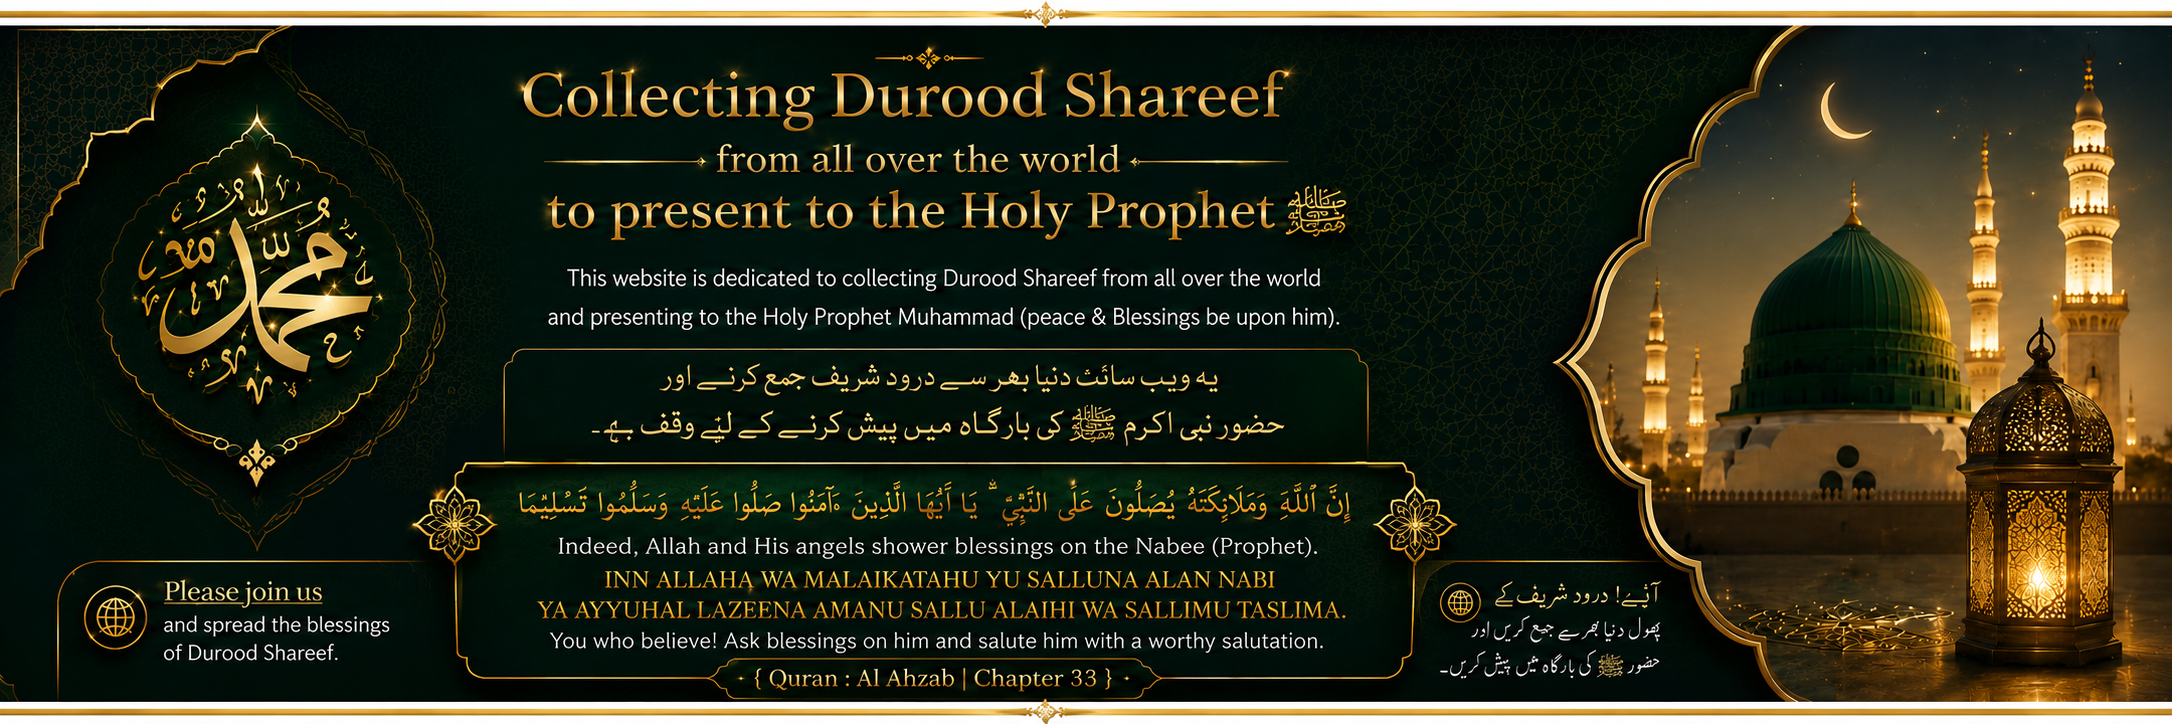
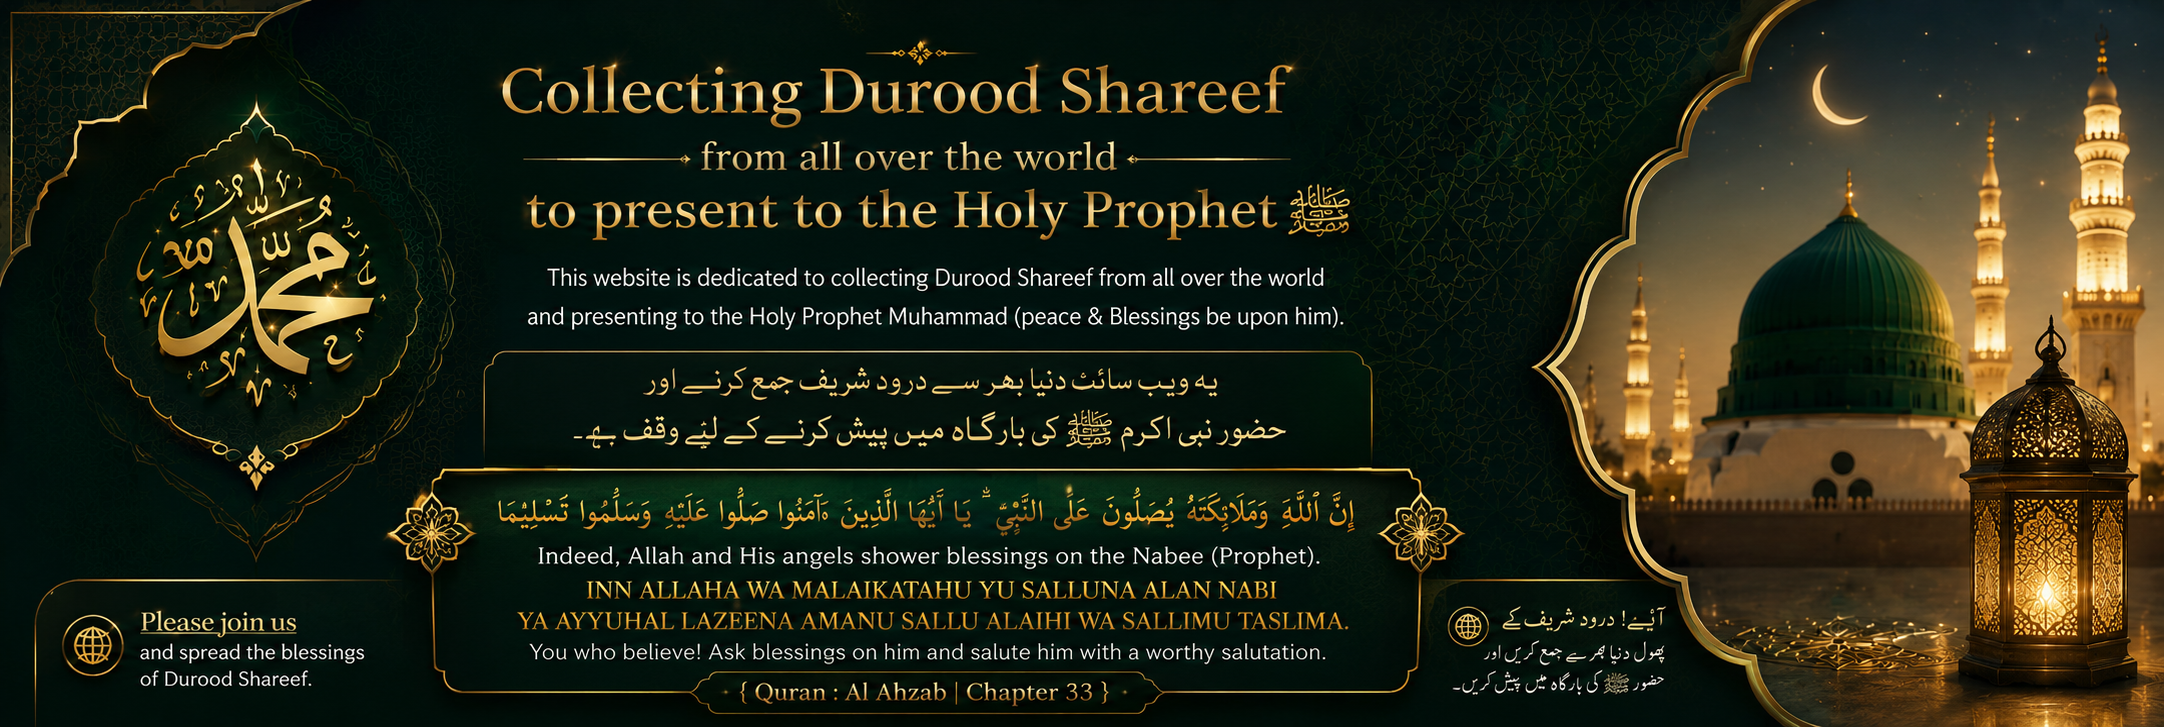
Redesign Urdu block, remove highlights row, center heading, swap photo/text layout in Mission section

diff --git a/src/components/home/MissionSection.tsx b/src/components/home/MissionSection.tsx
@@ -2,7 +2,16 @@
 
 import Image from 'next/image'
 import Link from 'next/link'
-import { FaHeart, FaVideo, FaBookOpen, FaMicrophone, FaArrowRight } from 'react-icons/fa'
+import { FaHeart, FaArrowRight } from 'react-icons/fa'
+
+// Urdu translation broken into individual sentences so each one can get
+// its own thin divider underneath it — keeps the Nastaliq script from
+// ever feeling like one dense, run-together block of text.
+const urduLines = [
+  'یہ ویب سائٹ پوری دنیا میں درود شریف اور اس کی برکات کو جمع کرنے اور اسے فروغ دینے کے لیے وقف ہے۔',
+  'درود شریف کے فوائد وڈیوز، لیکچرز، نعتوں، کتابوں اور مضامین کے ذریعے شیئر کیے جائیں گے۔',
+  'انشاء اللہ اس ویب سائٹ کو دیکھنے والے روحانی طور پر بلند ہو جائیں گے اور دوسروں کے ساتھ برکات بانٹنے کی ترغیب دی جاتی ہے۔',
+]
 
 // Our Mission — bilingual (English + Urdu) statement paired with the
 // founder's photo. Sits right under the hero on the home page so a first-
@@ -23,41 +32,12 @@ export default function MissionSection() {
           </div>
         </div>
 
-        <div className="grid lg:grid-cols-[0.85fr_1.15fr] gap-10 lg:gap-14 items-center">
+        <div className="grid lg:grid-cols-2 gap-10 lg:gap-14 items-stretch">
           {/* ============================================
-              FOUNDER PHOTO
-              ============================================ */}
-          <div className="relative group mx-auto lg:mx-0 w-full max-w-sm">
-            <div className="absolute -inset-6 bg-gold-500/10 rounded-[2rem] blur-3xl opacity-0 group-hover:opacity-100 transition-opacity duration-700" />
-
-            <div className="relative rounded-[1.75rem] overflow-hidden border-2 border-gold-500/25 group-hover:border-gold-500/50 transition-all duration-500 shadow-2xl shadow-black/40">
-              <Image
-                src="/mission/sultan-fiaz-ul-hassan.png"
-                alt="Sultan Fiaz-ul-Hassan Qadri"
-                width={700}
-                height={764}
-                className="w-full h-auto object-cover"
-                priority={false}
-              />
-              <div className="absolute inset-0 bg-gradient-to-t from-green-950/70 via-transparent to-transparent" />
-
-              {/* Corner accents */}
-              <div className="absolute top-3 left-3 w-8 h-8 border-t-2 border-l-2 border-gold-500/40 rounded-tl-lg" />
-              <div className="absolute bottom-3 right-3 w-8 h-8 border-b-2 border-r-2 border-gold-500/40 rounded-br-lg" />
-            </div>
-
-            {/* Name plate */}
-            <div className="mt-4 text-center">
-              <p className="text-white font-semibold text-sm">Sultan Fiaz-ul-Hassan Qadri</p>
-              <p className="text-gold-500/80 text-xs tracking-wide">Founder, Markaz-e-Durood</p>
-            </div>
-          </div>
-
-          {/* ============================================
-              MISSION TEXT — English + Urdu
+              MISSION TEXT — English + Urdu (now on the left)
               ============================================ */}
           <div className="space-y-6">
-            <h2 className="text-3xl md:text-4xl font-bold text-white leading-tight text-center lg:text-left">
+            <h2 className="text-3xl md:text-4xl font-bold text-white leading-tight text-center">
               Spreading the Blessings of{' '}
               <span className="text-gold-500">Durood Shareef</span>
             </h2>
@@ -79,40 +59,32 @@ export default function MissionSection() {
             </div>
 
             {/* Urdu block — professional Nastaliq font, right-aligned RTL,
-                with a labeled callout treatment matching the site's premium look */}
+                each sentence on its own line with a thin divider beneath it
+                so lines never feel like they're touching */}
             <div className="relative bg-green-850/60 border border-gold-500/15 border-r-4 border-r-gold-500/60 rounded-2xl p-5 sm:p-6 pt-4">
-              <span className="font-urdu inline-block text-gold-500/90 text-xs font-bold tracking-wide bg-gold-500/10 border border-gold-500/20 rounded-full px-3 py-1 mb-3">
+              <span className="font-urdu inline-block text-gold-500/90 text-xs font-bold tracking-wide bg-gold-500/10 border border-gold-500/20 rounded-full px-3 py-1 mb-4">
                 اردو ترجمہ
               </span>
-              <p dir="rtl" className="font-urdu text-gold-400 text-xl sm:text-2xl">
-                یہ ویب سائٹ پوری دنیا میں درود شریف اور اس کی برکات کو جمع کرنے اور اسے
-                فروغ دینے کے لیے وقف ہے۔ درود شریف کے فوائد وڈیوز، لیکچرز، نعتوں، کتابوں
-                اور مضامین کے ذریعے شیئر کیے جائیں گے۔ انشاء اللہ اس ویب سائٹ کو دیکھنے
-                والے روحانی طور پر بلند ہو جائیں گے اور دوسروں کے ساتھ برکات بانٹنے کی
-                ترغیب دی جاتی ہے۔
-              </p>
-              <p dir="rtl" className="font-urdu text-gold-500 font-bold text-lg sm:text-xl mt-3 pt-3 border-t border-gold-500/10">
+
+              {urduLines.map((line, i) => (
+                <p
+                  key={i}
+                  dir="rtl"
+                  className="font-urdu text-white text-xl sm:text-2xl pb-4 mb-4 border-b border-white/15"
+                  style={{ lineHeight: 2.4 }}
+                >
+                  {line}
+                </p>
+              ))}
+
+              <p
+                dir="rtl"
+                className="font-urdu text-gold-400 font-bold text-lg sm:text-xl pt-1"
+                style={{ lineHeight: 2.2 }}
+              >
                 اس سفر میں ہمارے ساتھ شامل ہوں اور روزانہ 50 ملین سے زیادہ درود کے ہدف
                 تک پہنچنے میں ہماری مدد کریں
               </p>
-            </div>
-
-            {/* Quick highlights */}
-            <div className="grid grid-cols-2 sm:grid-cols-4 gap-3">
-              {[
-                { icon: <FaBookOpen />, label: 'Books & Articles' },
-                { icon: <FaVideo />, label: 'Videos & Lectures' },
-                { icon: <FaMicrophone />, label: 'Naats & Bayan' },
-                { icon: <FaHeart />, label: 'Daily Durood' },
-              ].map((item, i) => (
-                <div
-                  key={i}
-                  className="flex items-center gap-2 bg-green-850/60 border border-gold-500/10 rounded-lg px-3 py-2.5"
-                >
-                  <span className="text-gold-500">{item.icon}</span>
-                  <span className="text-gray-300 text-xs">{item.label}</span>
-                </div>
-              ))}
             </div>
 
             <div className="flex justify-center lg:justify-start">
@@ -123,6 +95,37 @@ export default function MissionSection() {
                 Learn More About Us
                 <FaArrowRight className="text-xs" />
               </Link>
+            </div>
+          </div>
+
+          {/* ============================================
+              FOUNDER PHOTO (now on the right) — stretches to
+              match the full height of the text column so the
+              two sides read as the same visual size
+              ============================================ */}
+          <div className="relative group w-full h-[420px] sm:h-[480px] lg:h-auto flex flex-col">
+            <div className="absolute -inset-6 bg-gold-500/10 rounded-[2rem] blur-3xl opacity-0 group-hover:opacity-100 transition-opacity duration-700" />
+
+            <div className="relative flex-1 min-h-0 rounded-[1.75rem] overflow-hidden border-2 border-gold-500/25 group-hover:border-gold-500/50 transition-all duration-500 shadow-2xl shadow-black/40">
+              <Image
+                src="/mission/sultan-fiaz-ul-hassan.png"
+                alt="Sultan Fiaz-ul-Hassan Qadri"
+                fill
+                sizes="(max-width: 1024px) 100vw, 45vw"
+                className="object-cover"
+                priority={false}
+              />
+              <div className="absolute inset-0 bg-gradient-to-t from-green-950/70 via-transparent to-transparent" />
+
+              {/* Corner accents */}
+              <div className="absolute top-3 left-3 w-8 h-8 border-t-2 border-l-2 border-gold-500/40 rounded-tl-lg" />
+              <div className="absolute bottom-3 right-3 w-8 h-8 border-b-2 border-r-2 border-gold-500/40 rounded-br-lg" />
+            </div>
+
+            {/* Name plate */}
+            <div className="mt-4 text-center shrink-0">
+              <p className="text-white font-semibold text-sm">Sultan Fiaz-ul-Hassan Qadri</p>
+              <p className="text-gold-500/80 text-xs tracking-wide">Founder, Markaz-e-Durood</p>
             </div>
           </div>
         </div>
